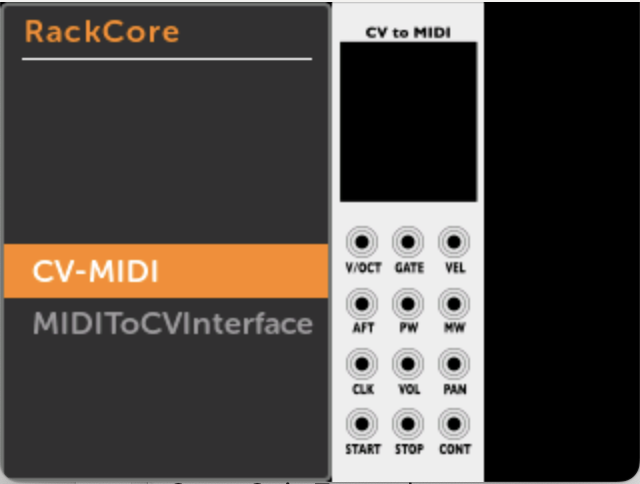
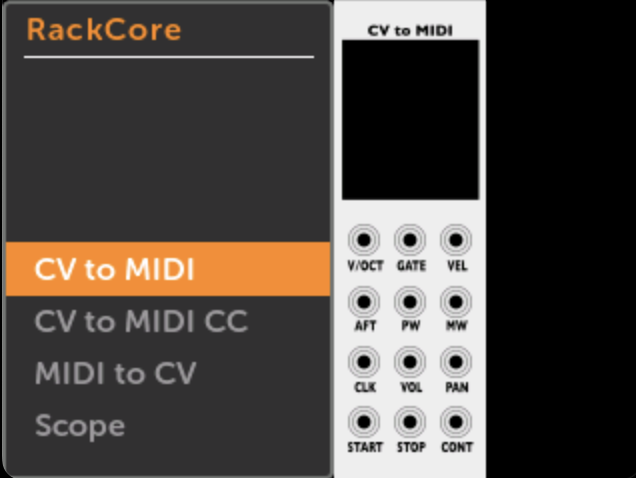
Modernize module list images of RackCore brand, add modules to side-bar, add waveform imgs to BWAVP

Changed region(s): [[0.0, 0.0, 1.0, 1.0], [0.0597, 0.7322, 0.3286, 0.8201], [0.0597, 0.8494, 0.2091, 0.9372]]

diff --git a/docs/using_metamodule_midi.md b/docs/using_metamodule_midi.md
@@ -178,9 +178,9 @@ You can patch MIDI signals to input jacks in two ways: using MIDI mappings, or u
    [![MIDI maps](./img/midi-map-pw.png){ .half }](./img/midi-map-pw.png)
 </div>
 
-### Using a MIDI input module
+### Using the MIDI to CV module
 <div class="grid cards" markdown>
--  __1. Add the RackCore MIDIToCVInterface module__
+-  __1. Add the MIDI to CV module from the RackCore brand__
 
    [![MIDI to CV module](./img/rackcore-midi-cv-module.png){ .half }](./img/rackcore-midi-cv-module.png)
 
@@ -196,12 +196,14 @@ You can patch MIDI signals to input jacks in two ways: using MIDI mappings, or u
 
 ## Patching Outputs to MIDI
 
-To support MIDI Output as a MIDI Host, the MetaModule has the CV-MIDI module
-in the RackCore brand.
+To support MIDI Output as a MIDI Host, the MetaModule has the `CV to MIDI` and
+`CV to MIDI CC` modules in the RackCore brand.
 
 Third-party plugin modules that produce MIDI Output should work, as well.
 
 Note that the MetaModule always acts as a MIDI Host, and never as a MIDI Device.
+
+### CV to MIDI (Notes)
 
 <div class="grid cards" markdown>
 -  __1. Add the RackCore CV-MIDI module__

diff --git a/docs/basic-wav-player.md b/docs/basic-wav-player.md
@@ -37,8 +37,14 @@ large samples.
 
 ### Waveform Display
 
-The module shows the sample waveform while playing. On the MetaModule, clicking on the Display will make it full-screen.
-The Waveform Zoom feature adjusts how much of the sample to display on the screen.
+The module shows the sample waveform while playing. On the MetaModule, clicking on the Waveform Display will make it full-screen.
+<div class="grid cards" markdown>
+   [![Basic Wav Player waveform element](./img/bwavp-waveform-element.png){ .half }](./img/bwavp-waveform-element.png)
+
+   [![Basic Wav Player full-screen waveform](./img/bwavp-waveform-display.png){ .half }](./img/bwavp-waveform-display.png)
+</div>
+
+The [Waveform Zoom](#waveform-zoom) feature adjusts how much of the sample to display on the screen.
 
 The waveform itself is color-coded:
 
